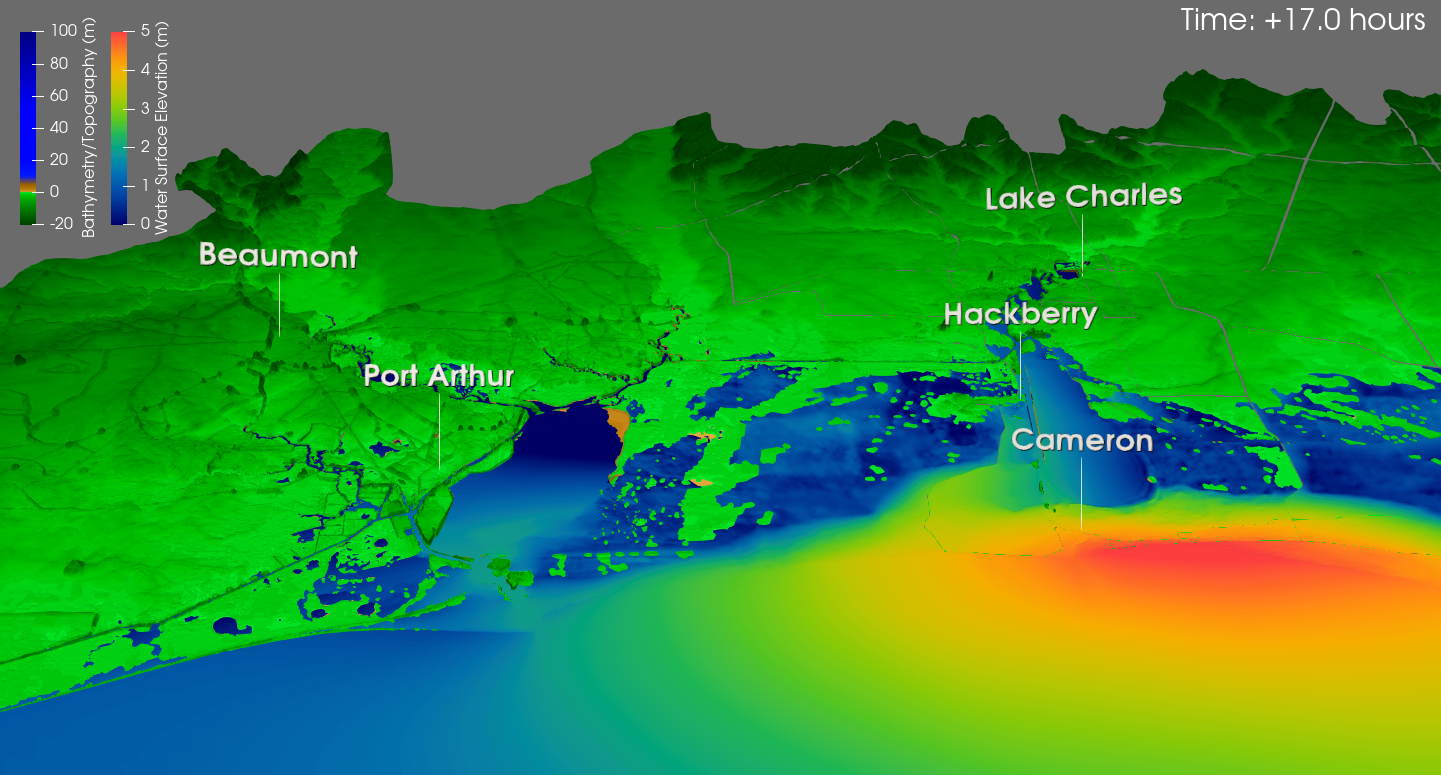
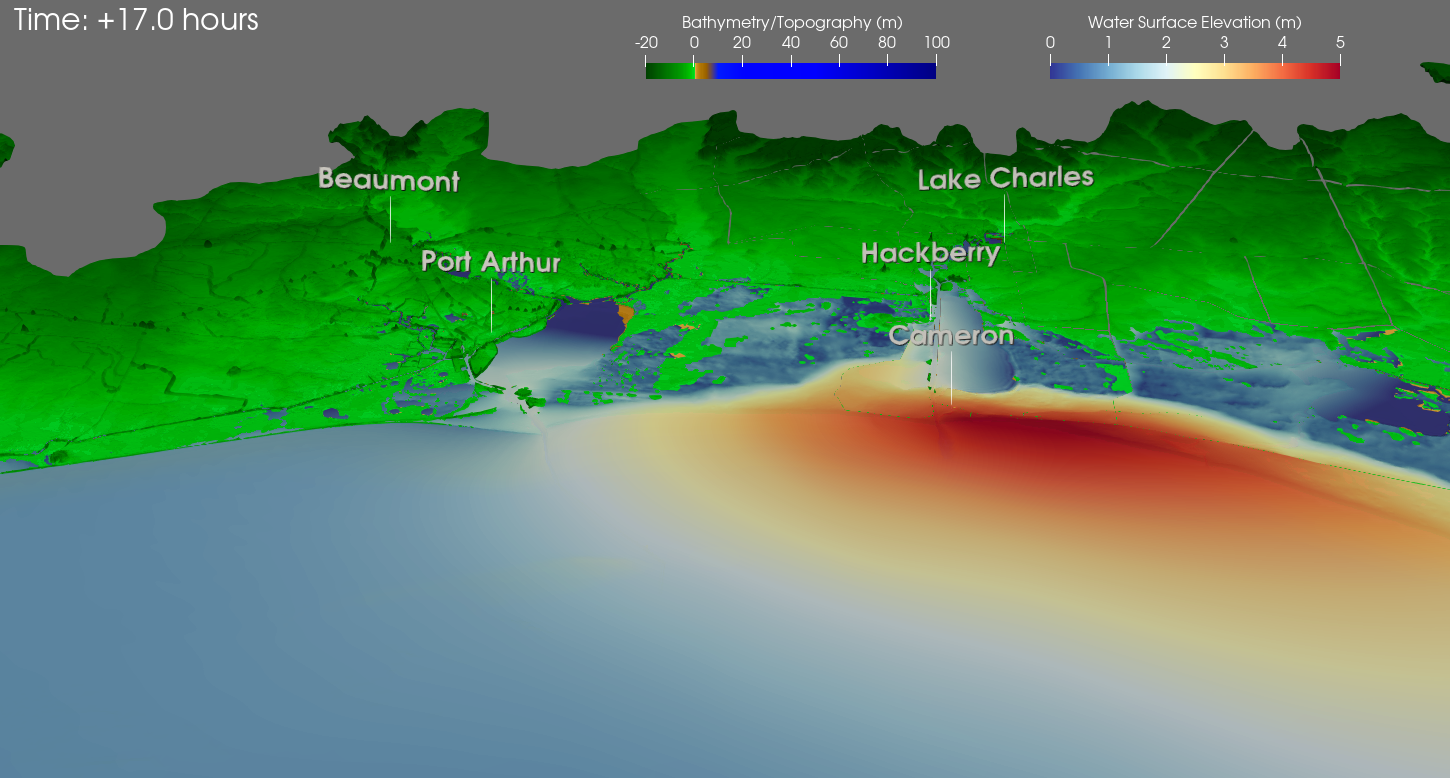
Updates to border scripts & 2D readme sample image

diff --git a/la-tx-vis/la-tx-border/zoomToLATXborder3D.py b/la-tx-vis/la-tx-border/zoomToLATXborder3D.py
@@ -29,9 +29,9 @@ renderView1.ResetCamera()
 
 # set the camera position
 camera = GetActiveCamera()
-camera.SetFocalPoint(-85.68415868826808, 109.73542352640422, -66.23746845234106)
-camera.SetPosition(-93.77671940167772, 28.84649367662483, 0.9698449093857261)
-camera.SetViewUp(-0.00935122333748162, 0.6395860096329778, 0.7686626639195226)
+camera.SetFocalPoint(-95.79131995311259, 112.51719975859382, -62.32762251154117)
+camera.SetPosition(-93.57896950610788, 28.297062100983442, 1.1342195581442112)
+camera.SetViewUp(-0.0787160717746916, 0.5986123359172563, 0.797161872728524)
 Render()
 
 # find source
@@ -66,12 +66,12 @@ bathymetricDepthLUT.AutomaticRescaleRangeMode = 'Never'
 bathymetricDepthLUTColorBar = GetScalarBar(bathymetricDepthLUT, renderView1)
 bathymetricDepthLUTColorBar.ComponentTitle = ''
 bathymetricDepthLUTColorBar.AutoOrient = 0
-bathymetricDepthLUTColorBar.Orientation = 'Vertical'
+bathymetricDepthLUTColorBar.Orientation = 'Horizontal'
 bathymetricDepthLUTColorBar.WindowLocation = 'AnyLocation'
-bathymetricDepthLUTColorBar.Position = [0.014129077029839513, 0.7101986754966899]
+bathymetricDepthLUTColorBar.Position = [0.4461287659431904, 0.8996311649840824]
 bathymetricDepthLUTColorBar.Title = 'Bathymetry/Topography (m)'
 bathymetricDepthLUTColorBar.AddRangeLabels = 0
-bathymetricDepthLUTColorBar.ScalarBarLength = 0.25
+bathymetricDepthLUTColorBar.ScalarBarLength = 0.2
 bathymetricDepthLUTColorBar.ScalarBarThickness = 16
 #### end definition of bathymetry/topography color map properties ####
 
@@ -84,7 +84,7 @@ Hide(generalSource, renderView1)
 bathyTopoScalarWarpDisplay.SetScalarBarVisibility(renderView1, True)
 renderView1.Update()
 bathymetricDepthLUTColorBar.WindowLocation = 'AnyLocation'
-bathymetricDepthLUTColorBar.Position = [0.014129077029839513, 0.7101986754966899]
+bathymetricDepthLUTColorBar.Position = [0.4461287659431904, 0.8996311649840824]
 #### end definition of bathymetry/topography scalar warp properties ####
 
 #### This section defines the color mapping properties for water surface elevation ####
@@ -130,12 +130,12 @@ zetaLUT.AutomaticRescaleRangeMode = 'Never'
 zetaLUTColorBar = GetScalarBar(zetaLUT, renderView1)
 zetaLUTColorBar.ComponentTitle = ''
 zetaLUTColorBar.AutoOrient = 0
-zetaLUTColorBar.Orientation = 'Vertical'
+zetaLUTColorBar.Orientation = 'Horizontal'
 zetaLUTColorBar.WindowLocation = 'AnyLocation'
-zetaLUTColorBar.Position = [0.07702984038861965, 0.7101986754966899]
+zetaLUTColorBar.Position = [0.7248275862068965, 0.8996311649840824]
 zetaLUTColorBar.Title = 'Water Surface Elevation (m)'
 zetaLUTColorBar.AddRangeLabels = 0
-zetaLUTColorBar.ScalarBarLength = 0.25
+zetaLUTColorBar.ScalarBarLength = 0.2
 zetaLUTColorBar.ScalarBarThickness = 16
 #### end definition of water surface elevation color map properties ####
 
@@ -149,7 +149,7 @@ zetaScalarWarpDisplay.SetScalarBarVisibility(renderView1, True)
 #ColorBy(zetaScalarWarpDisplay, ('POINTS', zetaThreshold.Scalars[1]))
 renderView1.Update()
 zetaLUTColorBar.WindowLocation = 'AnyLocation'
-zetaLUTColorBar.Position = [0.07702984038861965, 0.7101986754966899]
+zetaLUTColorBar.Position = [0.7248275862068965, 0.8996311649840824]
 
 # get display properties
 zetaScalarWarpDisplay = GetDisplayProperties(zetaScalarWarp, view=renderView1)
@@ -163,7 +163,7 @@ zetaScalarWarpDisplay.RescaleTransferFunctionToDataRange(True, False)
 zetaScalarWarpDisplay.SetScalarBarVisibility(renderView1, True)
 # change scalar bar placement
 zetaLUTColorBar.WindowLocation = 'AnyLocation'
-zetaLUTColorBar.Position = [0.07702984038861965, 0.7101986754966899]
+zetaLUTColorBar.Position = [0.7248275862068965, 0.8996311649840824]
 # Rescale transfer function
 zetaLUT.RescaleTransferFunction(0.0, 5.0)
 # Rescale transfer function

diff --git a/la-tx-vis/la-tx-border/labelsLATXborder.py b/la-tx-vis/la-tx-border/labelsLATXborder.py
@@ -20,7 +20,7 @@ textCameron = Text(registrationName='TextCameron')
 textCameronDisplay = Show(textCameron, renderView1, 'TextSourceRepresentation')
 textCameronDisplay.TextPropMode = 'Flagpole Actor'
 textCameron.Text = 'Cameron'
-textCameronDisplay.FontSize = 38
+textCameronDisplay.FontSize = 35
 textCameronDisplay.Bold = 1
 textCameronDisplay.Shadow = 1
 textCameronDisplay.BasePosition = [-93.3252, 29.7977, 0.0]
@@ -31,7 +31,7 @@ textPtArthur = Text(registrationName='TextPtArthur')
 textPtArthurDisplay = Show(textPtArthur, renderView1, 'TextSourceRepresentation')
 textPtArthurDisplay.TextPropMode = 'Flagpole Actor'
 textPtArthur.Text = 'Port Arthur'
-textPtArthurDisplay.FontSize = 38
+textPtArthurDisplay.FontSize = 35
 textPtArthurDisplay.Bold = 1
 textPtArthurDisplay.Shadow = 1
 textPtArthurDisplay.BasePosition = [-93.9399, 29.885, 0.0]
@@ -42,7 +42,7 @@ textLakeCharles = Text(registrationName='TextLakeCharles')
 textLakeCharlesDisplay = Show(textLakeCharles, renderView1, 'TextSourceRepresentation')
 textLakeCharlesDisplay.TextPropMode = 'Flagpole Actor'
 textLakeCharles.Text = 'Lake Charles'
-textLakeCharlesDisplay.FontSize = 38
+textLakeCharlesDisplay.FontSize = 35
 textLakeCharlesDisplay.Bold = 1
 textLakeCharlesDisplay.Shadow = 1
 textLakeCharlesDisplay.BasePosition = [-93.2174, 30.2266, 0.0]
@@ -53,7 +53,7 @@ textHackberry = Text(registrationName='TextHackberry')
 textHackberryDisplay = Show(textHackberry, renderView1, 'TextSourceRepresentation')
 textHackberryDisplay.TextPropMode = 'Flagpole Actor'
 textHackberry.Text = 'Hackberry'
-textHackberryDisplay.FontSize = 38
+textHackberryDisplay.FontSize = 35
 textHackberryDisplay.Bold = 1
 textHackberryDisplay.Shadow = 1
 textHackberryDisplay.BasePosition = [-93.3421, 29.996, 0.0]
@@ -64,14 +64,9 @@ textBeaumont = Text(registrationName='TextBeaumont')
 textBeaumontDisplay = Show(textBeaumont, renderView1, 'TextSourceRepresentation')
 textBeaumontDisplay.TextPropMode = 'Flagpole Actor'
 textBeaumont.Text = 'Beaumont'
-textBeaumontDisplay.FontSize = 38
+textBeaumontDisplay.FontSize = 35
 textBeaumontDisplay.Bold = 1
 textBeaumontDisplay.Shadow = 1
 textBeaumontDisplay.BasePosition = [-94.1266, 30.0802, 0.0]
 textBeaumontDisplay.TopPosition = [-94.1266 + viewUp[0]*viewUpScale, 30.0802 + viewUp[1]*viewUpScale, viewUp[2]*viewUpScale]
 renderView1.Update()
-
-# Create a new 'Light'
-light1 = AddLight(view=renderView1)
-light1.Coords = 'Ambient'
-light1.Intensity = 0.15

diff --git a/la-tx-vis/la-tx-border/README.md b/la-tx-vis/la-tx-border/README.md
@@ -6,12 +6,12 @@ The scripts in this directory should be used with XDMF files that were created u
 3. a ``fort.63.nc`` file followed by a ``fort.74.nc`` file (XDMF file name:``fort.63.nc_fort.74.nc.xmf``). Winds data is not used by any of the scripts in this directory, but the
 scripts have been made compatible with this type of input file regardless for convenience.
 
-The ``time`` script can only be used with the first or third options since it only applies to time series data.
+The ``relTime`` script can only be used with the first or third options since it only applies to time series data.
 
 Some brief descriptions of what each file does:
 - ``zoomToLATXborder3D``: This script zooms in to the area of interest, sets color mapping properties, and adjusts the location of the color bars.
 - ``labelsLATXborder``: Adds labels to important locations such as cities.
-- ``timeLATXborder``: Adds a time annotation relative to the start of the simulation in hours (first timestep will always read +0 hours).
+- ``relTimeLATXborder``: Adds a time annotation relative to the start of the simulation in hours (first timestep will always read +0 hours).
 
 ## Sample Image
 Sample image of all scripts used together (visualization of Hurricane Laura on CTXCS2017 mesh):
